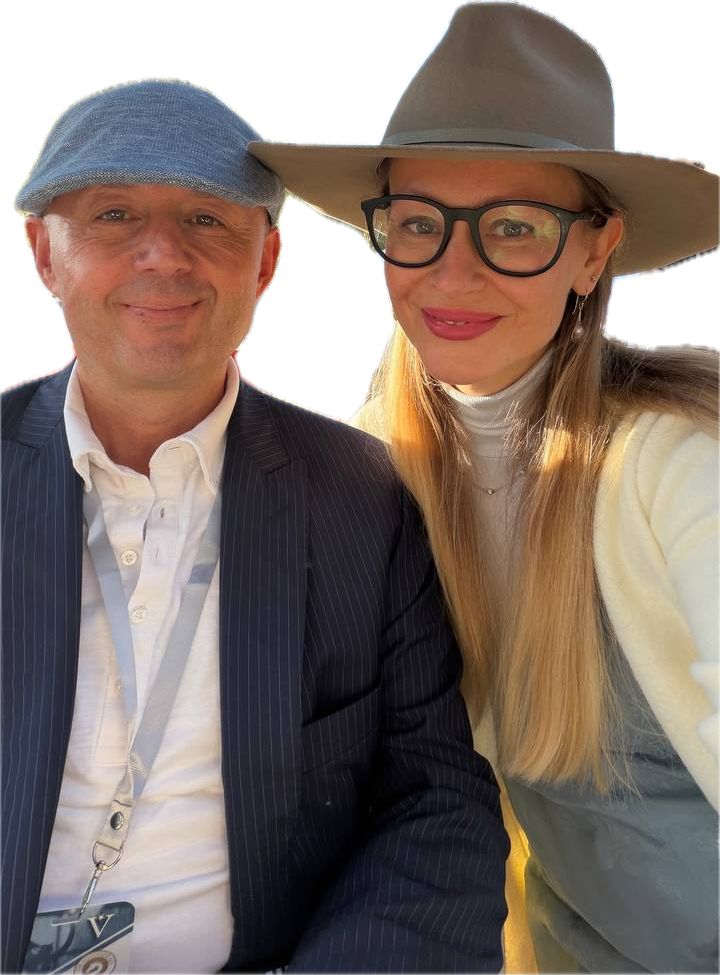
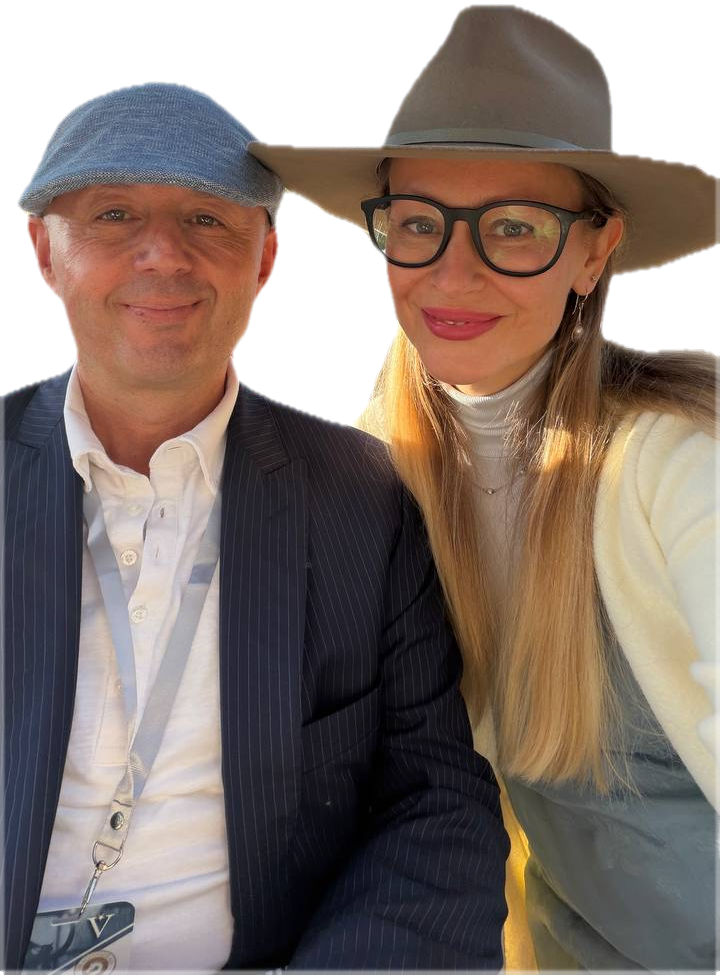
Слайд-шоу «Сила сообщества» со свечением; чище края фото учителей

diff --git a/lamrim-december/index.html b/lamrim-december/index.html
@@ -617,6 +617,29 @@ body{font-weight:500}
   .pro-title{max-width:100%!important}
   .hero .ctas{position:relative}
 }
+
+/* ===== слайд-шоу «Сила сообщества» ===== */
+.c-main img.slide{opacity:0;transform:scale(1.06);transition:opacity 1.4s ease,transform 6s ease-out}
+.c-main img.slide.on{opacity:1;transform:scale(1)}
+.c-main .glow{position:absolute;inset:0;z-index:1;pointer-events:none;border-radius:inherit;box-shadow:inset 0 0 0 1px rgba(243,217,145,.55),inset 0 0 60px rgba(221,174,53,.35);background:radial-gradient(ellipse at 50% 120%,rgba(243,217,145,.35),transparent 55%),radial-gradient(ellipse at 10% -10%,rgba(232,185,168,.25),transparent 45%);animation:glowPulse 4s ease-in-out infinite alternate}
+@keyframes glowPulse{from{opacity:.65}to{opacity:1}}
+.c-main{box-shadow:0 0 0 1px rgba(221,174,53,.35),0 20px 60px -20px rgba(221,174,53,.45)}
+.sparkles{position:absolute;inset:0;z-index:2;pointer-events:none}
+.sparkles i{position:absolute;width:12px;height:12px;background:#f3d991;clip-path:polygon(50% 0,61% 39%,100% 50%,61% 61%,50% 100%,39% 61%,0 50%,39% 39%);filter:drop-shadow(0 0 6px #ddae35);opacity:0;animation:spark 3.2s ease-in-out infinite}
+.sparkles i:nth-child(1){left:8%;top:12%;animation-delay:0s}
+.sparkles i:nth-child(2){left:86%;top:9%;animation-delay:.6s;width:16px;height:16px}
+.sparkles i:nth-child(3){left:72%;top:78%;animation-delay:1.2s}
+.sparkles i:nth-child(4){left:18%;top:70%;animation-delay:1.8s;width:9px;height:9px}
+.sparkles i:nth-child(5){left:48%;top:6%;animation-delay:2.3s}
+.sparkles i:nth-child(6){left:93%;top:52%;animation-delay:.9s;width:9px;height:9px}
+.sparkles i:nth-child(7){left:4%;top:44%;animation-delay:2.7s;width:14px;height:14px}
+@keyframes spark{0%,100%{opacity:0;transform:scale(.3) rotate(0)}45%{opacity:1;transform:scale(1.15) rotate(45deg)}}
+.c-main .dots{position:absolute;z-index:3;left:0;right:0;top:auto!important;bottom:16px;display:flex!important;flex-direction:row!important;justify-content:center;align-items:center;gap:8px}
+.c-main .dots b{display:block;height:8px!important}
+@media (max-width:1100px){.c-main{min-height:0!important;aspect-ratio:4/3}}
+.c-main .dots b{width:8px;height:8px;border-radius:50%;background:rgba(247,239,230,.5);transition:all .4s ease}
+.c-main .dots b.on{width:24px;border-radius:99px;background:var(--gold-l)}
+@media (prefers-reduced-motion: reduce){.c-main .glow,.sparkles i{animation:none}.sparkles i{opacity:.7}}
 </style>
 </head>
 <body>
@@ -979,9 +1002,14 @@ body{font-weight:500}
         </div>
         <div class="comm-grid">
           <figure class="c-main">
-            <img src="img/community.jpg" width="1200" height="900" alt="Участники одного из прошлых мероприятий Академии в зале" loading="lazy">
+            <img class="slide on" src="img/comm-1.jpg" width="1200" height="900" alt="Большое групповое фото участников прошлых учений">
+            <img class="slide" src="img/comm-2.jpg" width="1200" height="900" alt="Радость в зале на прошлых учениях" loading="lazy">
+            <img class="slide" src="img/comm-3.jpg" width="1200" height="900" alt="Учителя проходят через зал под аплодисменты" loading="lazy">
+            <img class="slide" src="img/comm-4.jpg" width="1200" height="900" alt="Общая медитация на ковриках в зале" loading="lazy">
+            <div class="glow" aria-hidden="true"></div>
+            <div class="sparkles" aria-hidden="true"><i></i><i></i><i></i><i></i><i></i><i></i><i></i></div>
             <div class="bokeh" aria-hidden="true"></div>
-            <figcaption><span>Одно из наших прошлых мероприятий</span></figcaption>
+            <div class="dots" aria-hidden="true"><b class="on"></b><b></b><b></b><b></b></div>
           </figure>
           <div class="card card-w c-txt">
             <p class="big">Сегодня особенно важно не оставаться наедине со своей практикой.</p>
@@ -1347,5 +1375,10 @@ body{font-weight:500}
   onView(fig,.45,function(fresh){tg.classList.add('is-on');if(!fresh||reduce)return;for(var i=0;i<55;i++){(function(i){setTimeout(function(){var s=document.createElement('span');s.style.left=(Math.random()*100)+'%';s.style.setProperty('--sz',(18+Math.random()*34).toFixed(0)+'px');s.style.setProperty('--dur',(3+Math.random()*3).toFixed(2)+'s');s.style.setProperty('--dx',(Math.random()*60-30).toFixed(0)+'px');bk.appendChild(s);setTimeout(function(){s.remove();},6500);},i*90);})(i);}},function(){tg.classList.remove('is-on');});
 })();
 </script>
+  <script>
+  (function(){var f=document.querySelector('#together .c-main');if(!f)return;var sl=f.querySelectorAll('img.slide'),dt=f.querySelectorAll('.dots b'),i=0;if(sl.length<2)return;
+  if(window.matchMedia&&matchMedia('(prefers-reduced-motion: reduce)').matches)return;
+  setInterval(function(){sl[i].classList.remove('on');dt[i]&&dt[i].classList.remove('on');i=(i+1)%sl.length;sl[i].classList.add('on');dt[i]&&dt[i].classList.add('on');},4500);})();
+  </script>
 </body>
 </html>
